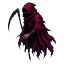
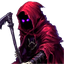
Redraw the desktop reaper, scythe, ghosts, raven and skeletons, and animate them
The art was redrawn with SDXL in a local ComfyUI (the reaper and scythe from
their old pictures, the rest from prompts), cut out with BiRefNet, and
animated by bending each picture as a finely divided plane in three.js.
TRELLIS.2 was tried for 3D models but gives a flat card on Apple silicon.

- The reaper is a sprite sheet: his cloak ripples as he hovers, sweeps back
  while he flies, and barely stirs while he sleeps.
- Ghosts swim, each at its own point in the loop; golden ones keep the tint.
- The raven beats its wings as it lands with a reminder.
- The Crypt's skeletons dig with a shovel, replacing the two pixel frames.
- New scythe, app icon and tray icons; the tray shows his head, which reads
  at menu-bar size.
- Reduced motion holds every sprite on its first frame.

diff --git a/desktop/renderer/style.css b/desktop/renderer/style.css
@@ -69,14 +69,27 @@ body.is-capturing * { visibility: hidden !important; }
 
 .body:active { cursor: grabbing; }
 
+/* He is a sprite sheet: one row of frames, played with steps(). Hovering, his
+   cloak ripples; moving, it sweeps back; asleep, it barely stirs. */
 .sprite {
-  display: block;
   width: 92px;
-  height: auto;
+  height: 114px;
+  background: url('../assets/reaper-idle.webp') 0 0 / 2208px 114px no-repeat;
+  animation: reaperIdle 2.4s steps(24) infinite;
   transition: transform 0.3s ease;
-  -webkit-user-drag: none;
   pointer-events: none;
 }
+
+@keyframes reaperIdle { to { background-position: -2208px 0; } }
+@keyframes reaperMove { to { background-position: -1472px 0; } }
+
+.reaper.is-moving .sprite {
+  background-image: url('../assets/reaper-move.webp');
+  background-size: 1472px 114px;
+  animation: reaperMove 1.1s steps(16) infinite;
+}
+
+.reaper.is-sleeping .sprite { animation-duration: 6s; }
 
 .reaper.is-left .sprite { transform: scaleX(-1); }
 
@@ -163,18 +176,14 @@ body.is-capturing * { visibility: hidden !important; }
 .digger {
   position: fixed;
   bottom: 0;
-  width: 48px;
-  height: 45px;
-  background: var(--a) center / contain no-repeat;
-  image-rendering: pixelated;
+  width: 36px;
+  height: 62px;
+  background: url('../assets/digger.webp') 0 0 / 576px 62px no-repeat;
   filter: drop-shadow(0 0 4px rgba(190, 150, 255, 0.55));
-  animation: dig 1.2s steps(1) infinite;
+  animation: dig 1.2s steps(16) infinite;
 }
 .digger.is-flipped { transform: scaleX(-1); }
-@keyframes dig {
-  0%, 100% { background-image: var(--a); }
-  50% { background-image: var(--b); }
-}
+@keyframes dig { to { background-position: -576px 0; } }
 @media (prefers-reduced-motion: reduce) {
   .digger { animation: none; }
 }
@@ -531,16 +540,18 @@ body.is-capturing * { visibility: hidden !important; }
   position: fixed;
   left: 0;
   top: 0;
-  width: 42px;
-  height: 50px;
+  width: 54px;
+  height: 48px;
   cursor: crosshair;
   will-change: transform;
+  background: url('../assets/ghost.webp') 0 0 / 864px 48px no-repeat;
+  filter: drop-shadow(0 0 8px rgba(158, 231, 242, 0.95));
+  animation: ghostSwim 1.6s steps(16) infinite;
 }
 
-.ghost svg { width: 100%; height: 100%; display: block; filter: drop-shadow(0 0 8px rgba(158, 231, 242, 0.95)); }
-.ghost path { fill: #eafcff; }
-.ghost circle { fill: var(--ink); }
-.ghost.is-golden svg { filter: sepia(1) saturate(2.4) hue-rotate(-12deg) brightness(1.15) drop-shadow(0 0 10px rgba(255, 226, 154, 0.95)); }
+@keyframes ghostSwim { to { background-position: -864px 0; } }
+
+.ghost.is-golden { filter: sepia(1) saturate(2.4) hue-rotate(-12deg) brightness(1.15) drop-shadow(0 0 10px rgba(255, 226, 154, 0.95)); }
 .ghost.is-caught { animation: caughtPop 0.3s ease forwards; pointer-events: none; }
 
 @keyframes caughtPop {
@@ -579,19 +590,17 @@ body.is-capturing * { visibility: hidden !important; }
   animation: flyIn 1.1s cubic-bezier(.2, .9, .3, 1) both;
 }
 
+/* Beats its wings six times as it lands, then holds still by the note. */
 .raven {
-  width: 76px;
-  margin-right: 18px;
-  fill: #0c0614;
-  stroke: var(--message);
-  stroke-width: 1;
+  width: 88px;
+  height: 78px;
+  margin-right: 10px;
+  background: url('../assets/raven.webp') 0 0 / 1056px 78px no-repeat;
   filter: drop-shadow(0 0 6px rgba(169, 189, 255, 0.8));
-  animation: flap 0.35s ease-in-out 6 alternate;
+  animation: flap 0.6s steps(12) 6;
 }
 
-.raven circle { fill: var(--gold); stroke: none; }
-
-@keyframes flap { to { transform: scaleY(0.6) translateY(4px); } }
+@keyframes flap { to { background-position: -1056px 0; } }
 
 @keyframes flyIn {
   from { transform: translate(110vw, -40px) rotate(-8deg); }
@@ -615,7 +624,8 @@ body.is-capturing * { visibility: hidden !important; }
 .raven-card .chip.solid { background: #1a1028; color: #fff; }
 
 @media (prefers-reduced-motion: reduce) {
-  .body, .reaper.is-sleeping .body, .reaper.is-hungry .body, .zzz, .ring::before, .raven { animation: none !important; }
+  .body, .reaper.is-sleeping .body, .reaper.is-hungry .body, .zzz, .ring::before, .raven,
+  .sprite, .reaper.is-moving .sprite, .ghost:not(.is-caught) { animation: none !important; }
   .slash-half { animation: none !important; opacity: 0; }
 }
 

diff --git a/desktop/renderer/abilities.js b/desktop/renderer/abilities.js
@@ -3,10 +3,10 @@
 import { el, chip } from './dom.js';
 import * as effects from './effects.js';
 
-const GHOST_SVG = '<svg viewBox="0 0 40 48" aria-hidden="true"><path d="M4 46 V20 A16 16 0 0 1 36 20 V46 L30 40 L24 46 L20 40 L16 46 L10 40 Z"/>' +
-  '<circle cx="14" cy="20" r="3"/><circle cx="26" cy="20" r="3"/></svg>';
-const RAVEN_SVG = '<svg class="raven" viewBox="0 0 64 40" aria-hidden="true"><path d="M2 21 C12 13 21 13 28 17 L33 6 L38 17 ' +
-  'C46 14 55 16 62 23 C52 21 45 23 39 27 L35 37 L31 27 C21 28 11 26 2 21 Z"/><circle cx="35" cy="20" r="1.4"/></svg>';
+// A ghost's size on screen; its look and swim are a sprite sheet in style.css.
+const GHOST_W = 54;
+const GHOST_H = 48;
+const GHOST_LOOP_S = 1.6;
 
 const HUNT_MS = 10000;
 const VANISH_MS = 30 * 60000;
@@ -128,7 +128,9 @@ export function createAbilities(ctx) {
       field.appendChild(flock);
     }
     const note = el('div', 'raven-note hit');
-    note.innerHTML = RAVEN_SVG;
+    const bird = el('div', 'raven');
+    bird.setAttribute('aria-hidden', 'true');
+    note.appendChild(bird);
     const body = el('div', 'raven-card');
     body.append(el('small', null, 'A RAVEN · ' + clock(raven.at)), el('div', null, raven.text));
     const row = el('div', 'row');
@@ -195,11 +197,12 @@ export function createAbilities(ctx) {
   function spawnGhost() {
     const golden = Math.random() < 0.1;
     const g = el('div', 'ghost hit' + (golden ? ' is-golden' : ''));
-    g.innerHTML = GHOST_SVG;
+    // Each starts at its own point in the swim, so they don't move in step.
+    g.style.animationDelay = -(Math.random() * GHOST_LOOP_S).toFixed(2) + 's';
     const side = Math.random() < 0.5;
     const ghost = {
       node: g, golden,
-      x: side ? -40 : innerWidth + 10,
+      x: side ? -GHOST_W : innerWidth + 10,
       y: 40 + Math.random() * (innerHeight - 140),
       vx: (side ? 1 : -1) * (0.08 + Math.random() * 0.16),
       vy: (Math.random() - 0.5) * 0.14,
@@ -231,8 +234,8 @@ export function createAbilities(ctx) {
     for (const g of hunt.ghosts) {
       if (g.caught) continue;
       // They shy away from the cursor.
-      const dx = g.x + 21 - cursor.x;
-      const dy = g.y + 25 - cursor.y;
+      const dx = g.x + GHOST_W / 2 - cursor.x;
+      const dy = g.y + GHOST_H / 2 - cursor.y;
       const d = Math.hypot(dx, dy);
       if (d < 120 && d > 0) {
         g.vx += (dx / d) * 0.004 * dt;
@@ -242,8 +245,8 @@ export function createAbilities(ctx) {
       if (speed > 0.35) { g.vx *= 0.35 / speed; g.vy *= 0.35 / speed; }
       g.x += g.vx * dt;
       g.y += g.vy * dt + Math.sin(now / 300 + g.phase) * 0.3;
-      if ((g.x < 0 && g.vx < 0) || (g.x > innerWidth - 42 && g.vx > 0)) g.vx = -g.vx;
-      if ((g.y < 0 && g.vy < 0) || (g.y > innerHeight - 50 && g.vy > 0)) g.vy = -g.vy;
+      if ((g.x < 0 && g.vx < 0) || (g.x > innerWidth - GHOST_W && g.vx > 0)) g.vx = -g.vx;
+      if ((g.y < 0 && g.vy < 0) || (g.y > innerHeight - GHOST_H && g.vy > 0)) g.vy = -g.vy;
       const at = `translate(${Math.round(g.x)}px, ${Math.round(g.y)}px)`;
       g.node.style.transform = at;
       g.node.style.setProperty('--at', at);

diff --git a/desktop/renderer/crypt.js b/desktop/renderer/crypt.js
@@ -1,70 +1,17 @@
 // The Crypt on the page: its card, the souls counter, and the skeletons that
-// dig along the bottom of the screen. The rules and the saved numbers live in
-// the main process (../crypt.js); this draws what it is told.
+// dig along the bottom of the screen (their dig is a sprite sheet in
+// style.css). The rules and the saved numbers live in the main process
+// (../crypt.js); this draws what it is told.
 import { el, chip } from './dom.js';
 
 // How many skeletons are drawn; the rest dig out of sight.
 const SHOWN = 8;
-
-// Two frames of a small skeleton with a shovel, as pixels. w bone, g shade,
-// k dark, s shovel handle, m shovel blade.
-const FRAMES = [
-  [
-    '....wwww........',
-    '...wwwwww.....m.',
-    '...wkwwkw....mm.',
-    '...wwwwww....s..',
-    '....wkkw....s...',
-    '.....ww....s....',
-    '...wwwwwwwws....',
-    '..w.wggw..s.....',
-    '..w.wwww........',
-    '..w.wggw........',
-    '....wwww........',
-    '....w..w........',
-    '....w..w........',
-    '....w..w........',
-    '...ww..ww.......'
-  ],
-  [
-    '................',
-    '....wwww........',
-    '...wwwwww.......',
-    '...wkwwkw.......',
-    '...wwwwww.......',
-    '....wkkw........',
-    '.....ww.........',
-    '...wwwwwww......',
-    '..w.wggw.ws.....',
-    '..w.wwww..s.....',
-    '..w.wggw...s....',
-    '....wwww....s...',
-    '....w..w....mm..',
-    '....w..w....mm..',
-    '...ww..ww.......'
-  ]
-];
-const INK = { w: '#ece7da', g: '#a59f8c', k: '#1a1028', s: '#8a5a3a', m: '#9fb0c0' };
-
-function drawFrame(rows) {
-  const canvas = document.createElement('canvas');
-  canvas.width = rows[0].length;
-  canvas.height = rows.length;
-  const g = canvas.getContext('2d');
-  rows.forEach((row, y) => [...row].forEach((ch, x) => {
-    if (!INK[ch]) return;
-    g.fillStyle = INK[ch];
-    g.fillRect(x, y, 1, 1);
-  }));
-  return canvas.toDataURL();
-}
 
 export function createCrypt(ctx) {
   const { companion, card, say, field, sound } = ctx;
   const owner = {};
   let now = { souls: 0, skeletons: 0, nextCost: 25, perHour: 0, total: 0, awayCapHours: 8 };
   let shown = true;
-  let frames = null;
   const diggers = [];
 
   // --- The card -------------------------------------------------------------
@@ -98,11 +45,8 @@ export function createCrypt(ctx) {
     const want = shown ? Math.min(SHOWN, now.skeletons) : 0;
     while (diggers.length > want) diggers.pop().remove();
     while (diggers.length < want) {
-      if (!frames) frames = FRAMES.map(drawFrame);
       const i = diggers.length;
       const node = el('div', 'digger');
-      node.style.setProperty('--a', 'url(' + frames[0] + ')');
-      node.style.setProperty('--b', 'url(' + frames[1] + ')');
       // Spread along the bottom edge, each a little out of step with the next.
       node.style.left = (6 + ((i * 37) % 88)) + '%';
       node.style.animationDelay = (-(i * 0.37) % 1.2) + 's';

diff --git a/desktop/renderer/index.html b/desktop/renderer/index.html
@@ -18,7 +18,7 @@
         <circle class="sand-left" cx="70" cy="70" r="64" pathLength="100"></circle>
       </svg>
       <div id="huntRing" class="hunt-ring" hidden></div>
-      <img id="sprite" class="sprite" src="../assets/reaper.webp" alt="" width="92" height="114" draggable="false">
+      <div id="sprite" class="sprite" aria-hidden="true"></div>
       <span class="zzz" aria-hidden="true">z<i>z</i><b>z</b></span>
     </div>
     <div class="soul" role="meter" aria-label="Soul" aria-valuemin="0" aria-valuemax="100" aria-valuenow="100">
